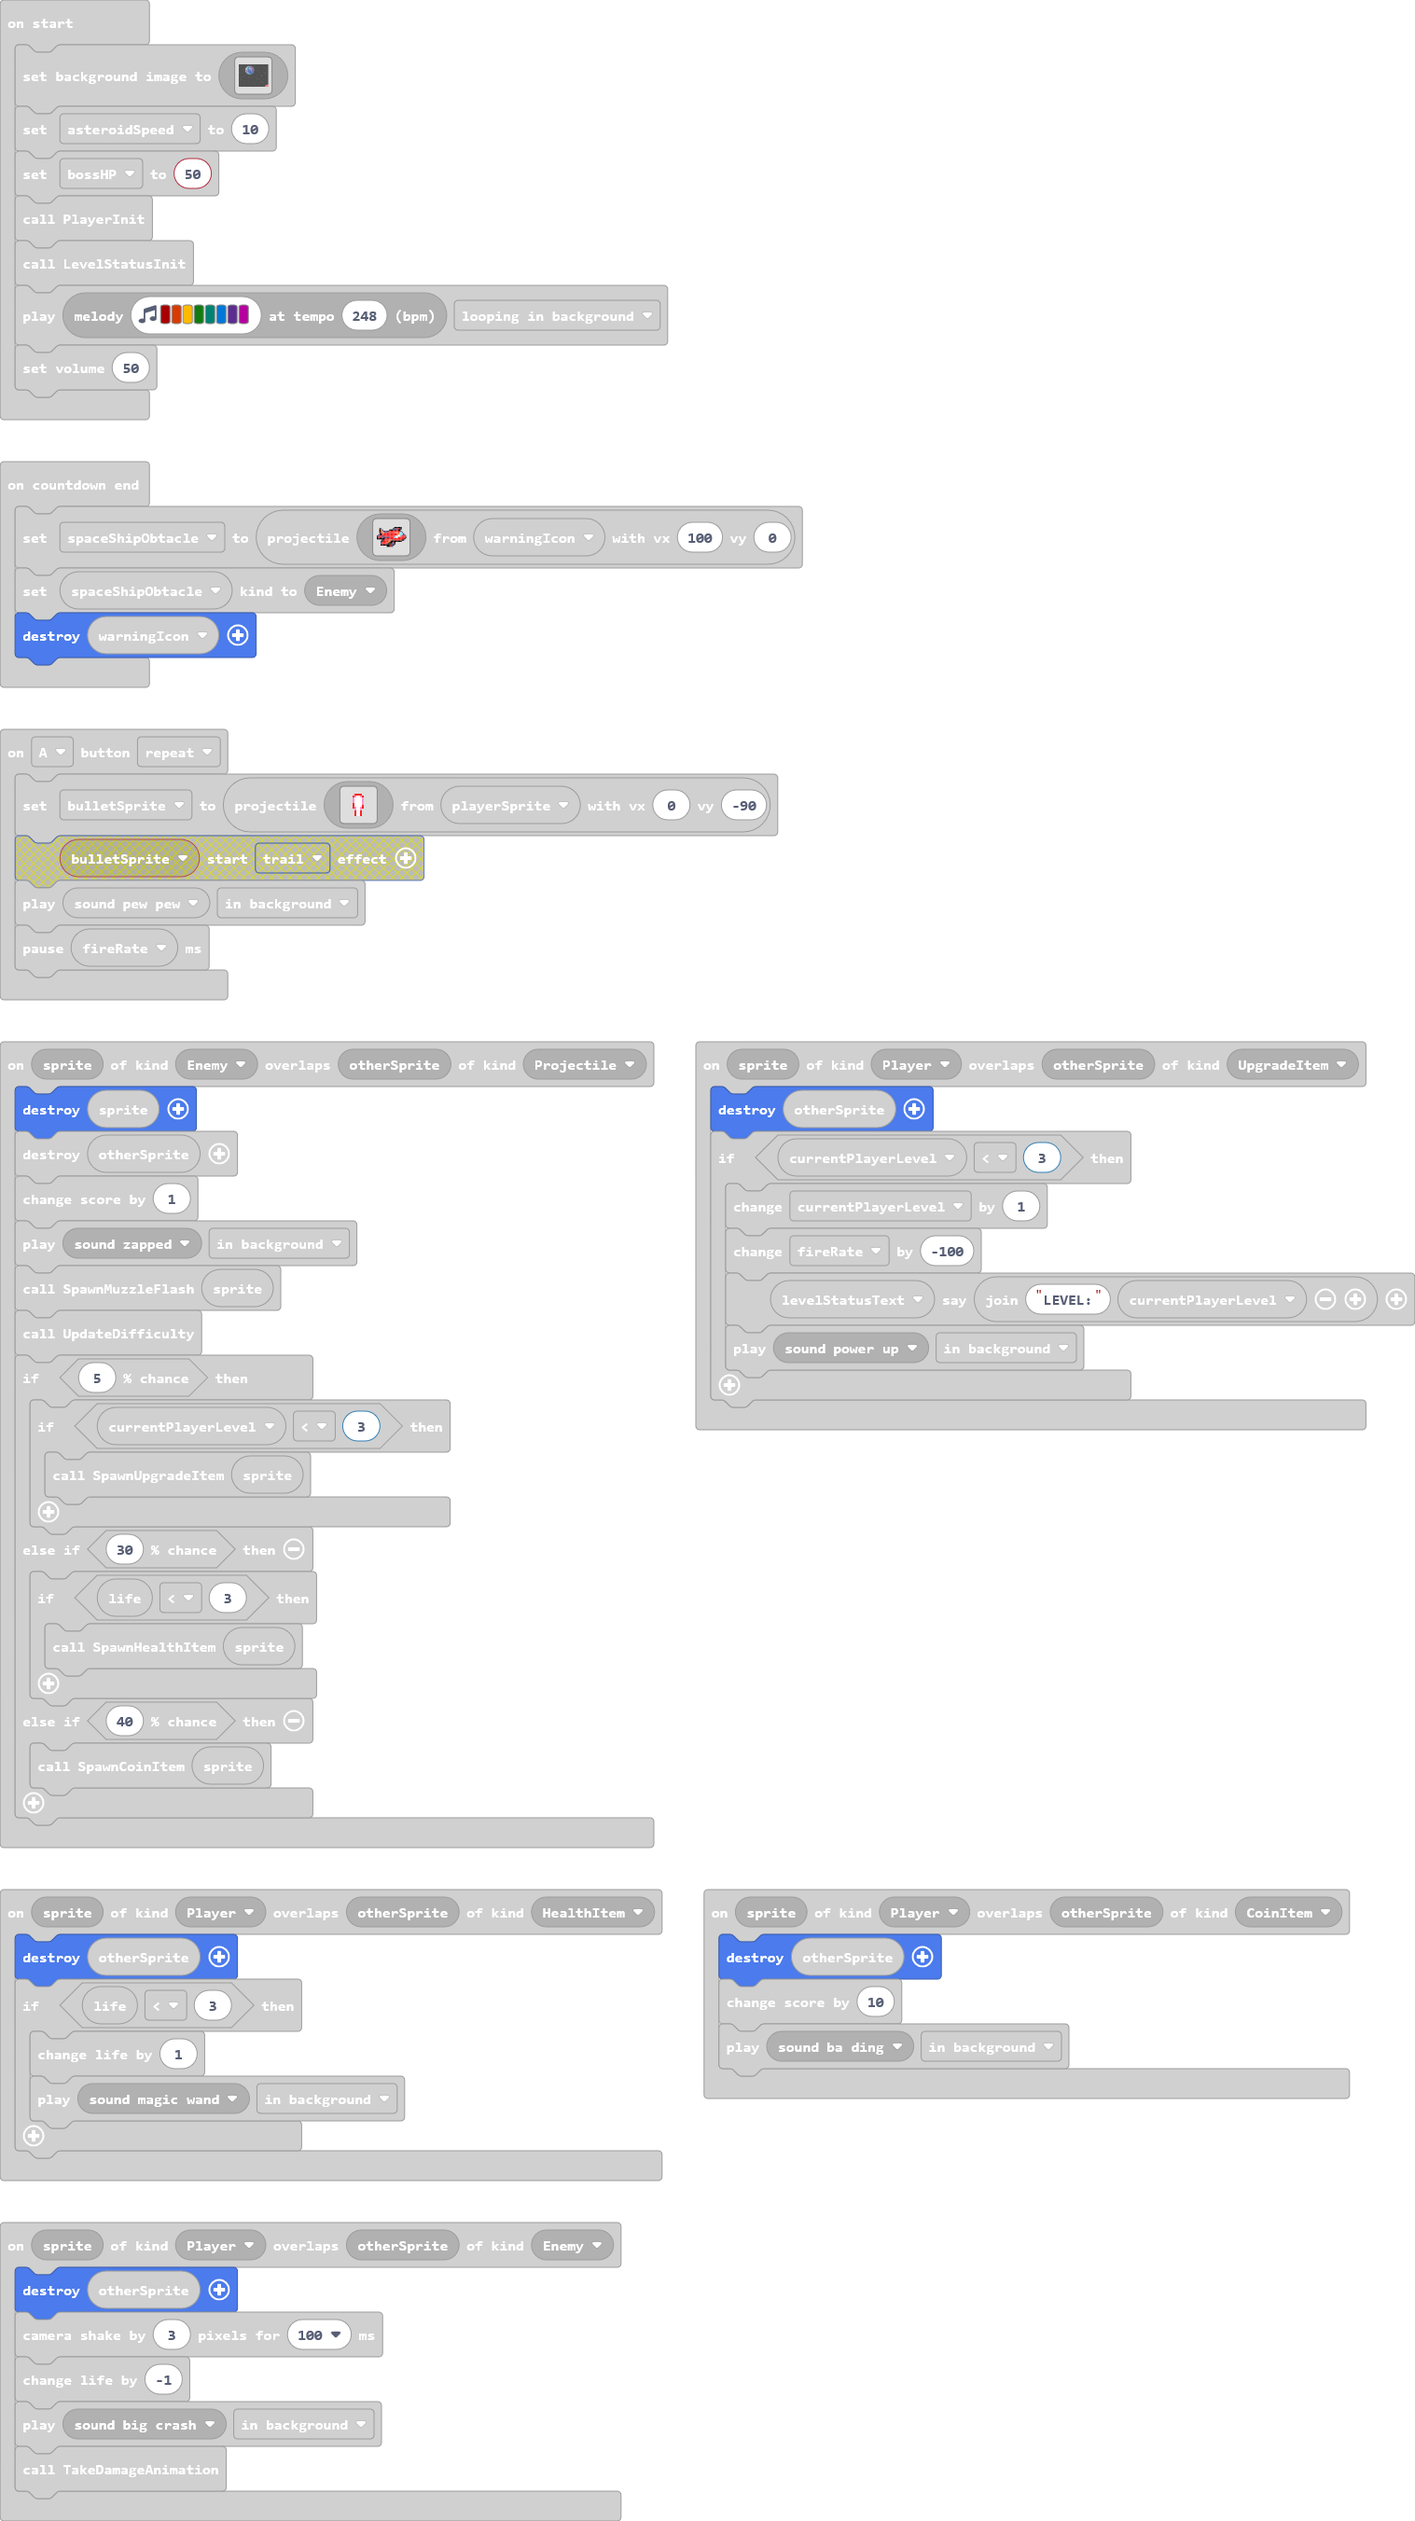
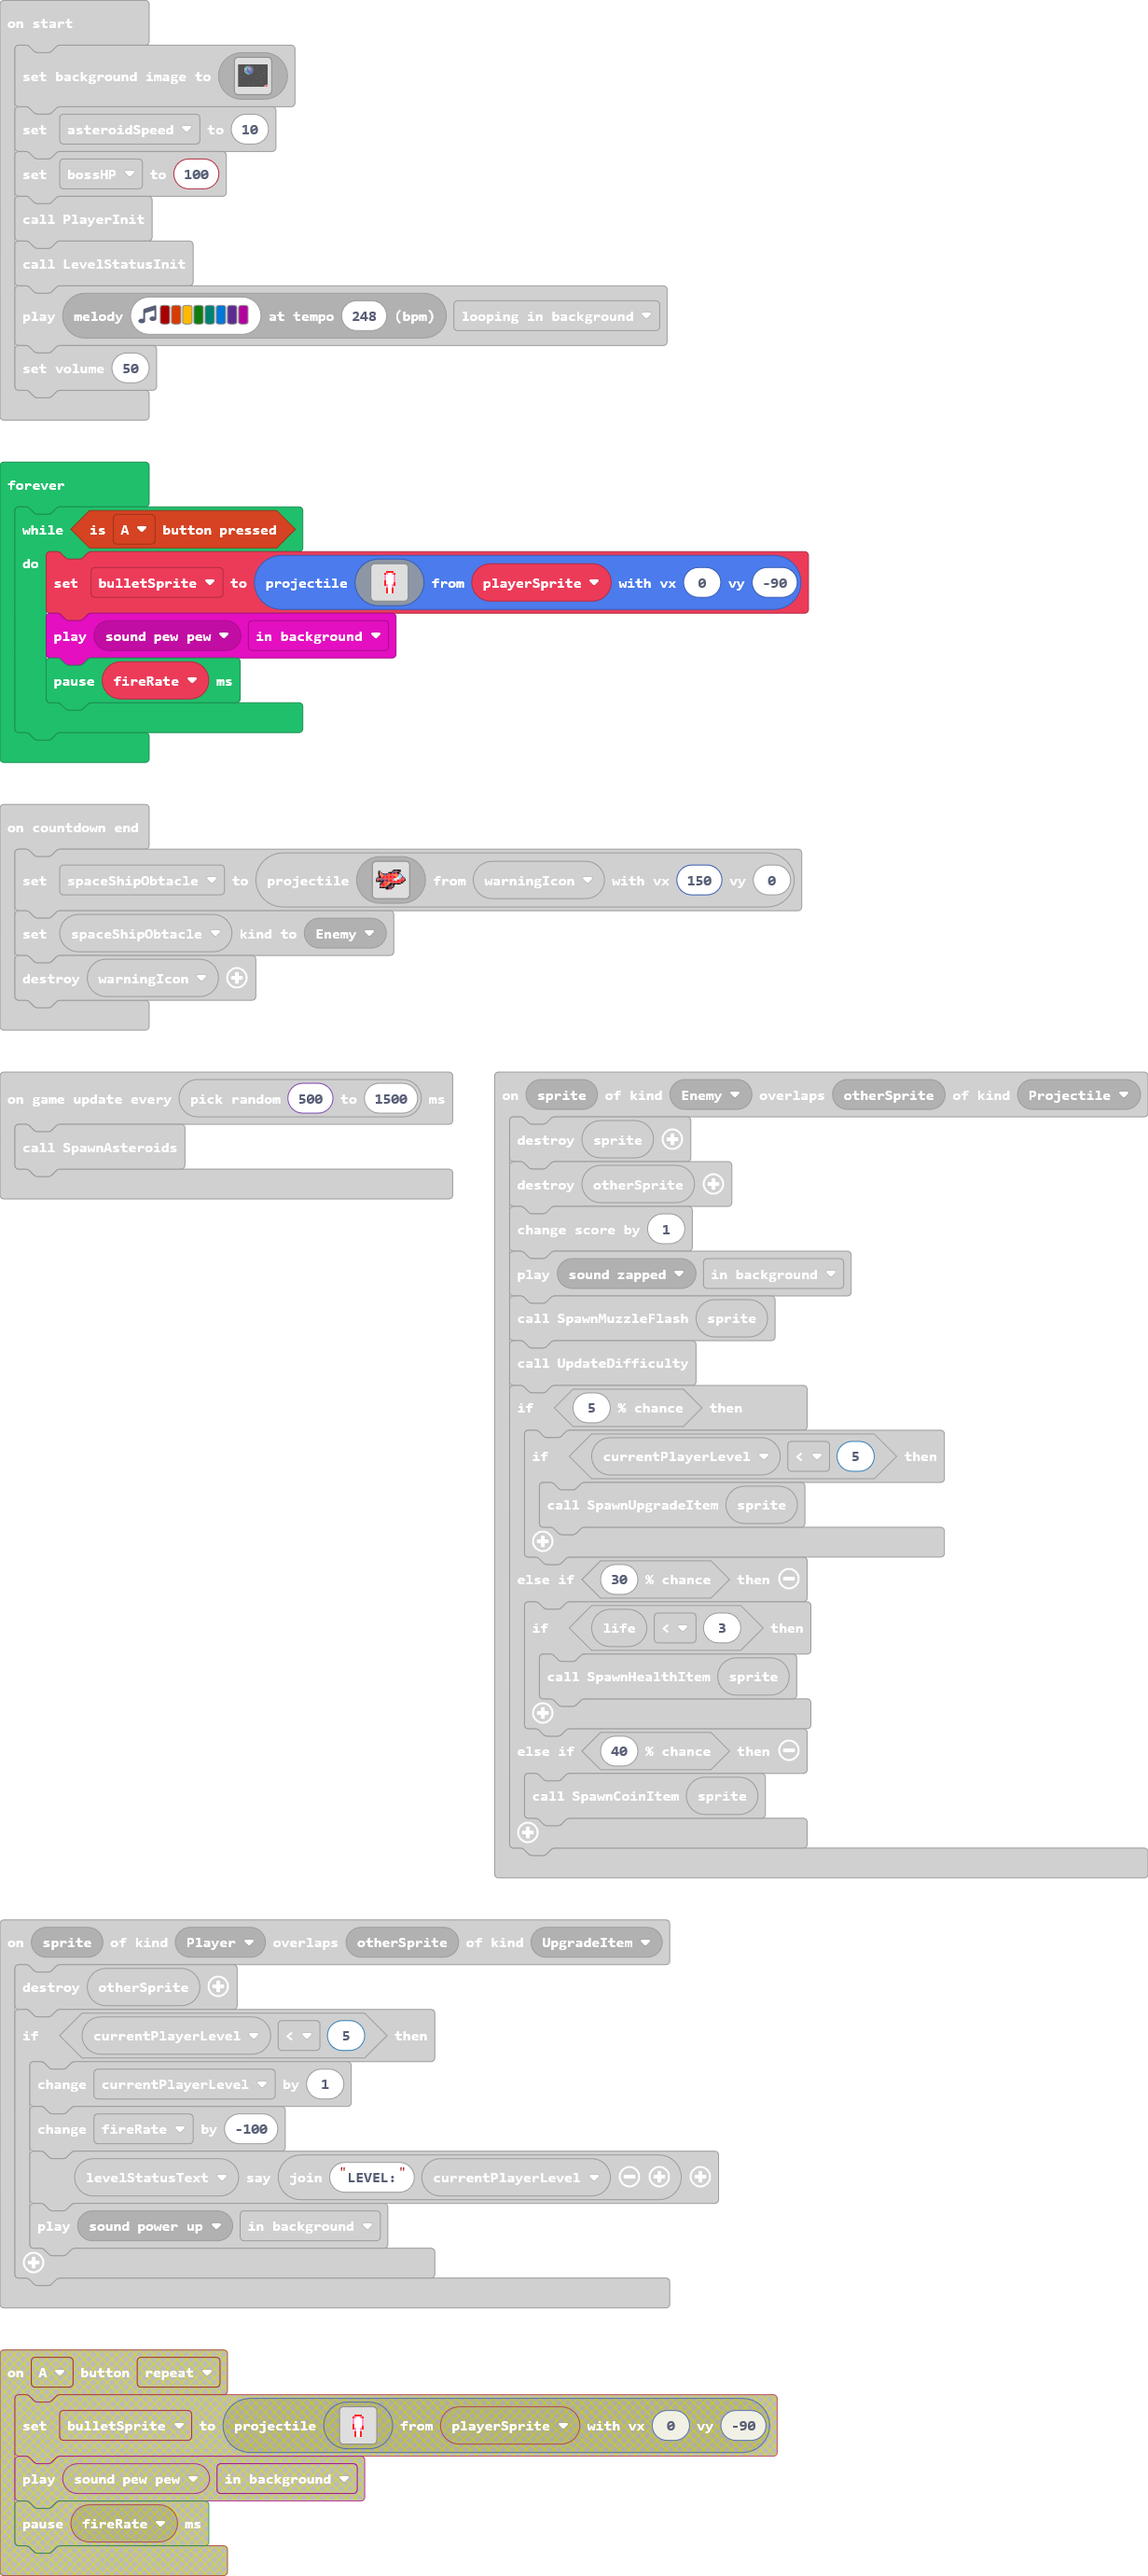
Fix bug

diff --git a/main.ts b/main.ts
@@ -389,7 +389,7 @@ sprites.onOverlap(SpriteKind.Enemy, SpriteKind.Projectile, function (sprite, oth
     SpawnMuzzleFlash(sprite)
     UpdateDifficulty()
     if (Math.percentChance(5)) {
-        if (currentPlayerLevel < 3) {
+        if (currentPlayerLevel < 5) {
             SpawnUpgradeItem(sprite)
         }
     } else if (Math.percentChance(30)) {
@@ -428,7 +428,7 @@ info.onCountdownEnd(function () {
         ...c2222cfffccf.........
         ...ffffffff2cf..........
         ........fff2c...........
-        `, warningIcon, 100, 0)
+        `, warningIcon, 150, 0)
     spaceShipObtacle.setKind(SpriteKind.Enemy)
     sprites.destroy(warningIcon)
 })
@@ -479,7 +479,7 @@ function TakeDamageAnimation () {
 }
 sprites.onOverlap(SpriteKind.Player, SpriteKind.UpgradeItem, function (sprite, otherSprite) {
     sprites.destroy(otherSprite)
-    if (currentPlayerLevel < 3) {
+    if (currentPlayerLevel < 5) {
         currentPlayerLevel += 1
         fireRate += -100
         levelStatusText.sayText("LEVEL:" + currentPlayerLevel)
@@ -488,28 +488,6 @@ sprites.onOverlap(SpriteKind.Player, SpriteKind.UpgradeItem, function (sprite, o
 })
 info.onScore(150, function () {
     SpawnBoss()
-})
-controller.A.onEvent(ControllerButtonEvent.Repeated, function () {
-    bulletSprite = sprites.createProjectileFromSprite(img`
-        . . . . . . . . . . . . . . . . 
-        . . . . . . . . . . . . . . . . 
-        . . . . . . 2 2 2 2 . . . . . . 
-        . . . . . 2 3 1 1 3 2 . . . . . 
-        . . . . . 3 1 1 1 1 3 . . . . . 
-        . . . . . 3 1 1 1 1 3 . . . . . 
-        . . . . . 3 1 1 1 1 3 . . . . . 
-        . . . . . 2 1 1 1 1 3 . . . . . 
-        . . . . . 2 1 1 1 1 2 . . . . . 
-        . . . . . 2 3 1 1 3 2 . . . . . 
-        . . . . . . 3 1 1 3 . . . . . . 
-        . . . . . . 2 1 1 2 . . . . . . 
-        . . . . . . 2 1 1 2 . . . . . . 
-        . . . . . . 2 1 1 2 . . . . . . 
-        . . . . . . . . . . . . . . . . 
-        . . . . . . . . . . . . . . . . 
-        `, playerSprite, 0, -90)
-    music.play(music.melodyPlayable(music.pewPew), music.PlaybackMode.InBackground)
-    pause(fireRate)
 })
 sprites.onOverlap(SpriteKind.Player, SpriteKind.CoinItem, function (sprite, otherSprite) {
     sprites.destroy(otherSprite)
@@ -752,16 +730,40 @@ scene.setBackgroundImage(img`
[1 lines of base64/hex data omitted]
     `)
 asteroidSpeed = 10
-bossHP = 50
+bossHP = 100
 PlayerInit()
 LevelStatusInit()
 music.play(music.stringPlayable("C5 B A G F E D C ", 248), music.PlaybackMode.LoopingInBackground)
 music.setVolume(50)
-game.onUpdateInterval(randint(1000, 1500), function () {
-    SpawnAsteroids()
-})
 game.onUpdateInterval(randint(3000, 5000), function () {
     if (Math.percentChance(50)) {
         SpawnObstacle()
+    }
+})
+game.onUpdateInterval(randint(500, 1500), function () {
+    SpawnAsteroids()
+})
+forever(function () {
+    while (controller.A.isPressed()) {
+        bulletSprite = sprites.createProjectileFromSprite(img`
+            . . . . . . . . . . . . . . . . 
+            . . . . . . . . . . . . . . . . 
+            . . . . . . 2 2 2 2 . . . . . . 
+            . . . . . 2 3 1 1 3 2 . . . . . 
+            . . . . . 3 1 1 1 1 3 . . . . . 
+            . . . . . 3 1 1 1 1 3 . . . . . 
+            . . . . . 3 1 1 1 1 3 . . . . . 
+            . . . . . 2 1 1 1 1 3 . . . . . 
+            . . . . . 2 1 1 1 1 2 . . . . . 
+            . . . . . 2 3 1 1 3 2 . . . . . 
+            . . . . . . 3 1 1 3 . . . . . . 
+            . . . . . . 2 1 1 2 . . . . . . 
+            . . . . . . 2 1 1 2 . . . . . . 
+            . . . . . . 2 1 1 2 . . . . . . 
+            . . . . . . . . . . . . . . . . 
+            . . . . . . . . . . . . . . . . 
+            `, playerSprite, 0, -90)
+        music.play(music.melodyPlayable(music.pewPew), music.PlaybackMode.InBackground)
+        pause(fireRate)
     }
 })
